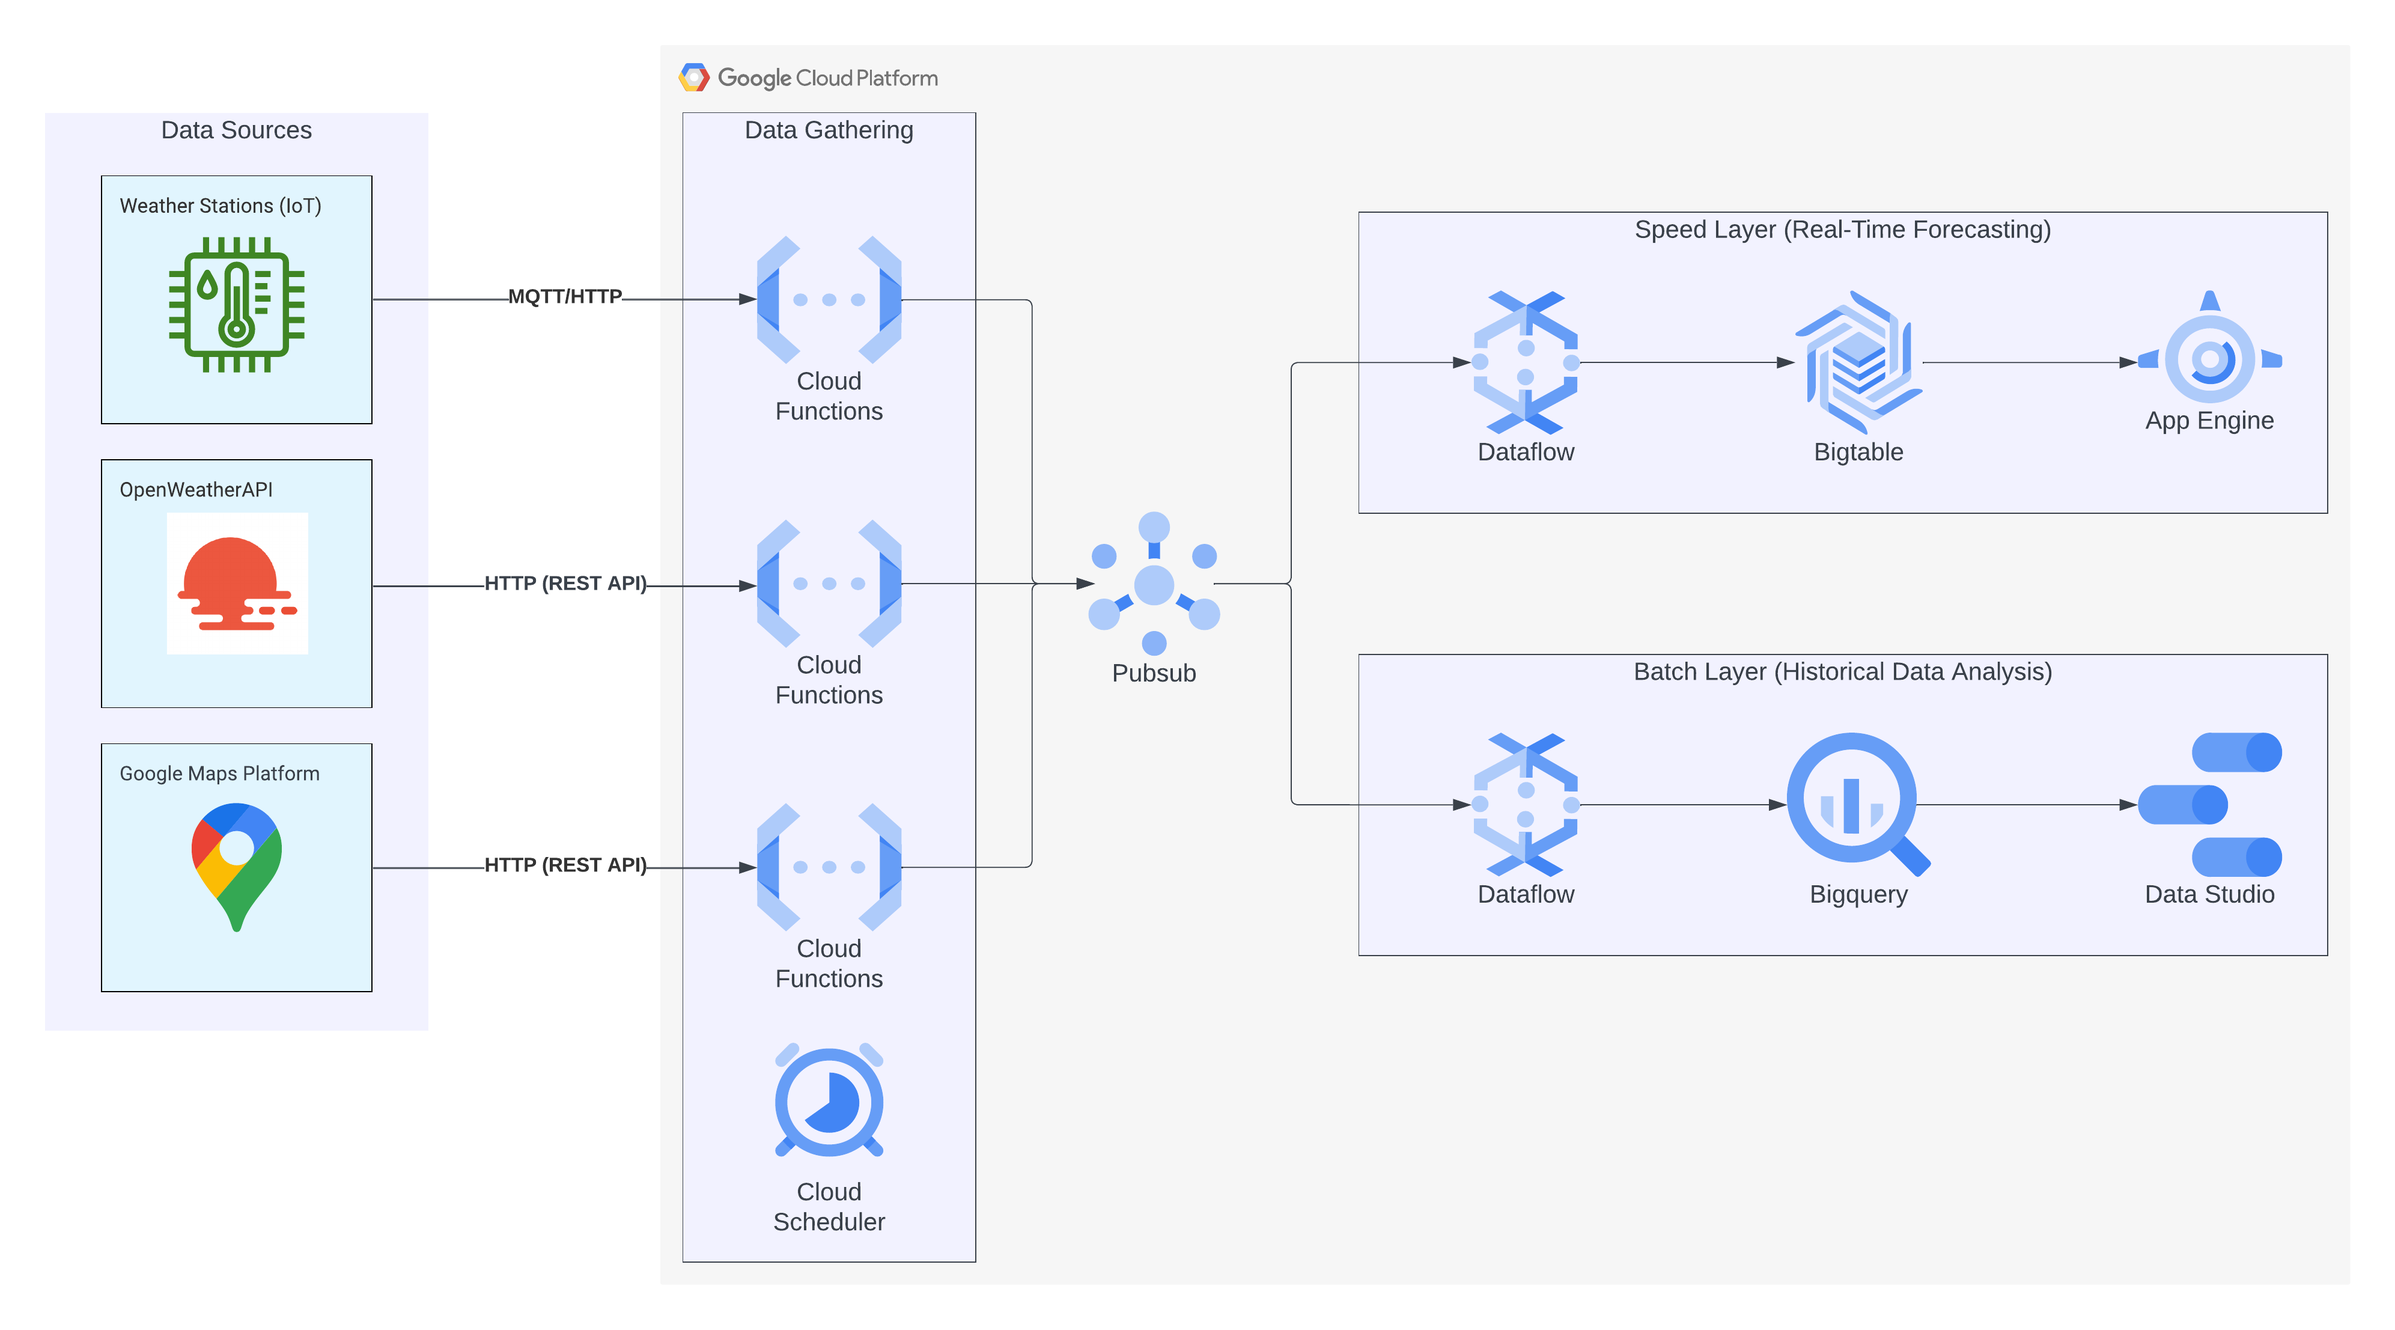
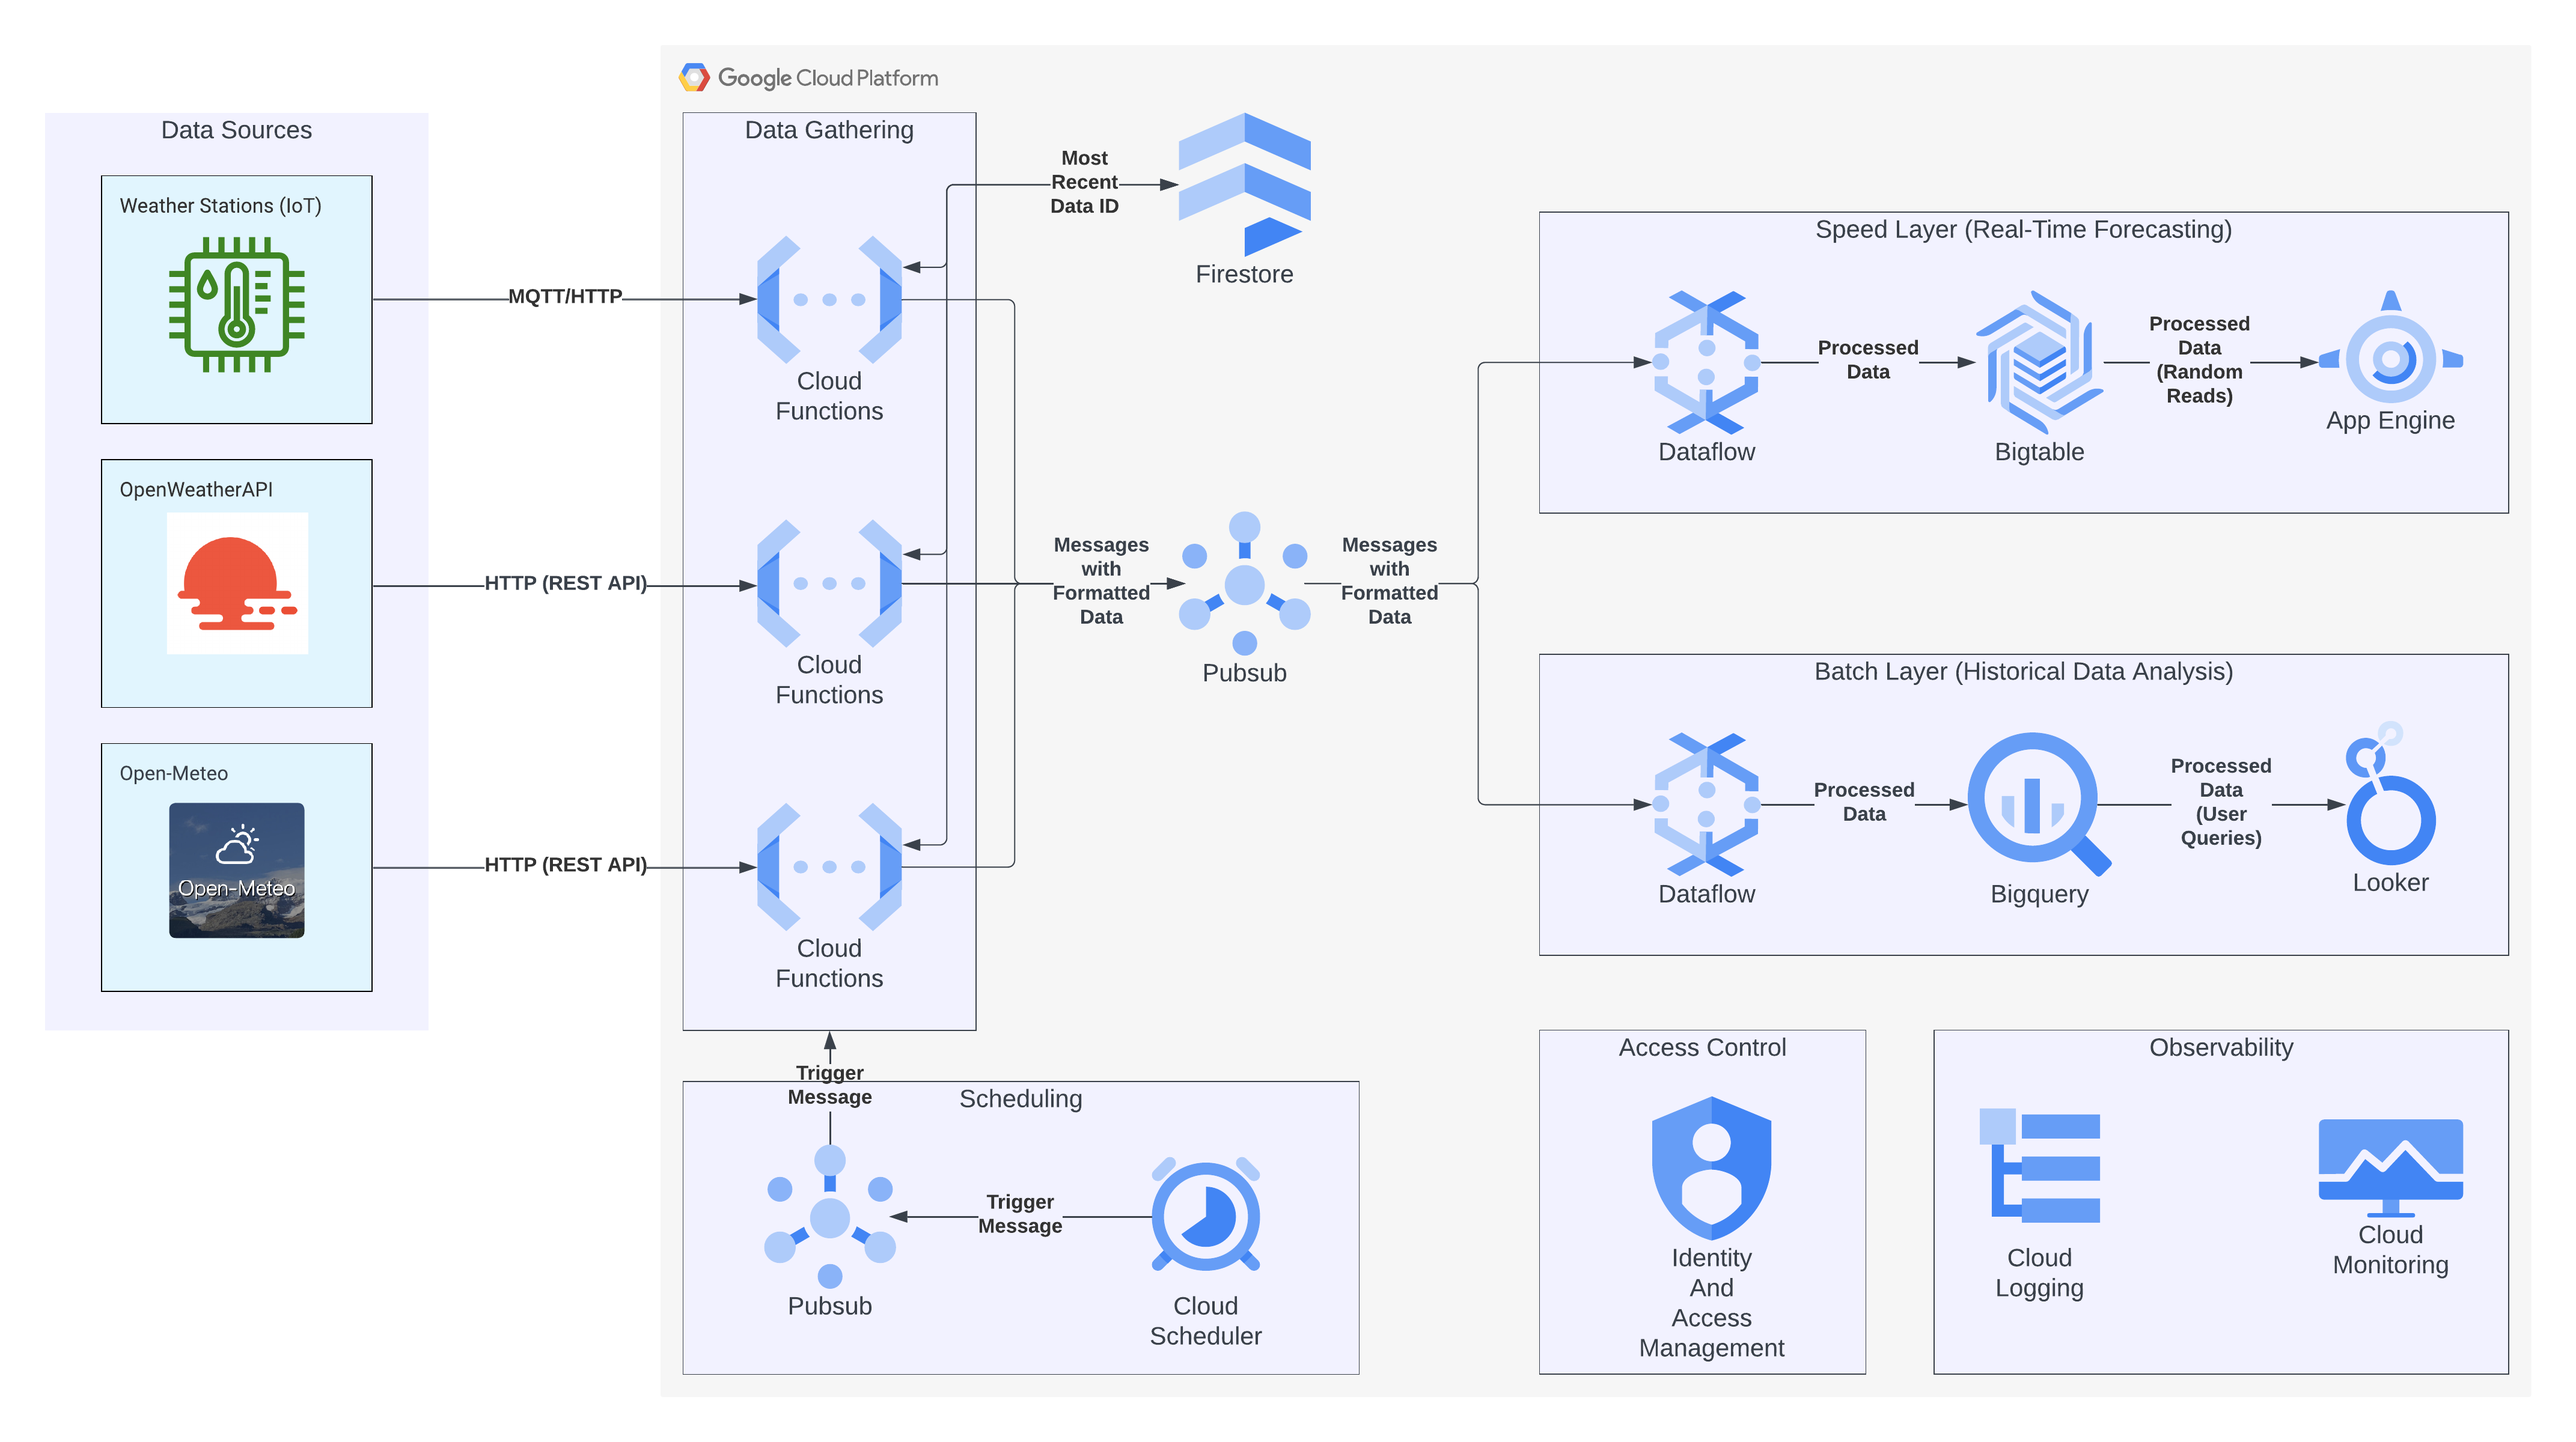
Updated architecture diagram and added SLO section to the README

diff --git a/README.md b/README.md
@@ -1,5 +1,29 @@
 # Cloud Computing project: Multi-Provider Weather Forecasting and Analysis
 
+The goal of this project is to create a system in GCP, with strong emphasis of using the cloud-native services provided by the platform. The system will be able to provide weather forecasting and analysis, combining data from multiple providers. It is a way to compare or combine the data from different providers, and to provide a more reliable forecast. There will be two main user interfaces: a web app with real-time forecasting and a BI tool for historical data analysis. The system should be able to scale according to the demand, including large scale scenarios.
+
 ## Architecture Overview
 
 ![Architecture](/architecture.png)
+
+## SLA, SLO, SLI
+
+| Service | SLO (% availability) | SLA |
+| --- | --- | --- |
+| OpenWeatherAPI | 95 | &cross; |
+| OpenWeatherAPI (Enterprise) | 99.95 | &check; |
+| Open-Meteo | 99.9 | &cross; |
+| Open-Meteo (Enterprise) | 99.9 | &check; |
+| Cloud Functions | 99.95 | &check; |
+| Cloud Scheduler | 99.5 | &check; |
+| Pub/Sub | 99.95 | &check; |
+| Firestore (Regional) | 99.99 | &check; |
+| Dataflow | 99.9 | &check; |
+| BigTable (single cluster) | 99.9 | &check; |
+| BigQuery | 99.9 | &check; |
+| App Engine | 99.95 | &check; |
+| Data Looker (standard) | 99.5 | &check; |
+| Cloud Logging | 99.95 | &check; |
+| Cloud Monitoring | 99.95 | &check; |
+
+To estimate SLO of whole infrastructure, we could use probability theory (product of sequential components). However, it still would not capture the whole picture, as it is only infrastructure, without the application itself. To estimate that, we would have to define SLIs and measure them with proper tools.
